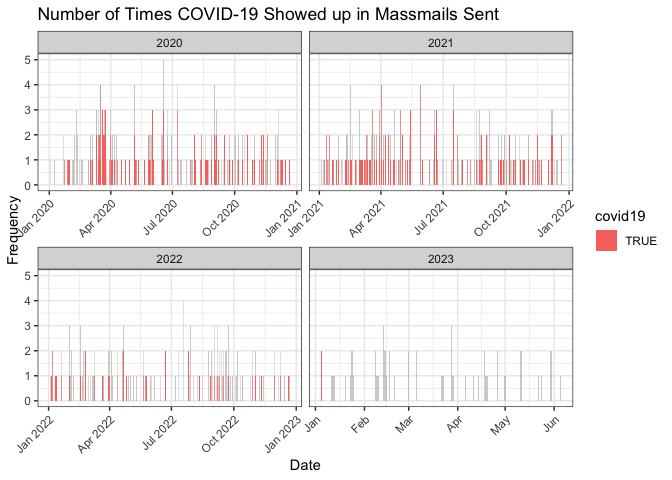
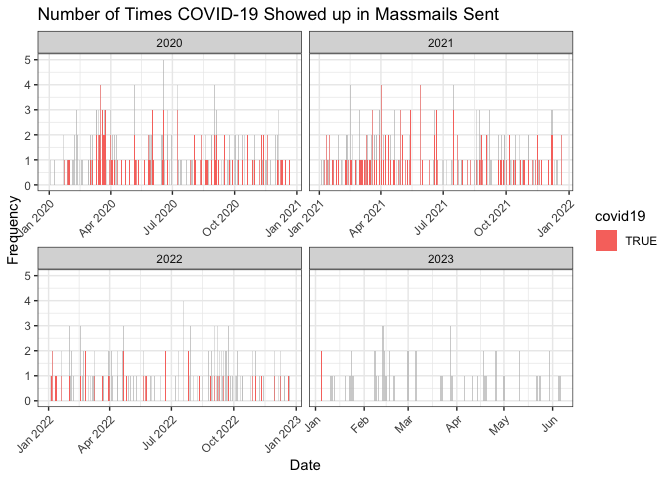
Re-build README.Rmd and Graphs

diff --git a/README.md b/README.md
@@ -17,7 +17,7 @@ The archive may be viewed here:
 
 <https://massmail.illinois.edu/massmailArchive>
 
-Data has **813** observations and **7** variables:
+Data has **814** observations and **7** variables:
 
 - `datetime`: Date and time when the email was sent in the form of
   `YYYY-MM-DD HMS` with either CDT or CST.
@@ -210,16 +210,16 @@ head(most_popular_words, 10) %>%
 
 | word       | freq |
 |:-----------|-----:|
-| university | 1884 |
-| students   | 1614 |
-| campus     | 1454 |
-| illinois   | 1260 |
+| university | 1886 |
+| students   | 1618 |
+| campus     | 1455 |
+| illinois   | 1263 |
 | covid      | 1070 |
-| faculty    |  963 |
+| faculty    |  968 |
 | community  |  902 |
 | health     |  900 |
-| student    |  822 |
-| staff      |  798 |
+| student    |  824 |
+| staff      |  802 |
 
 #### Wordcloud
 
